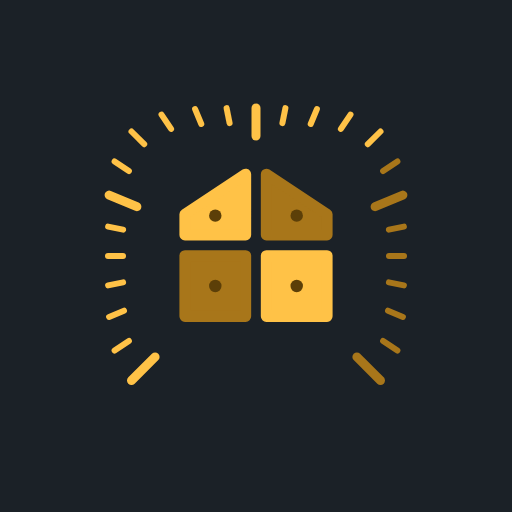
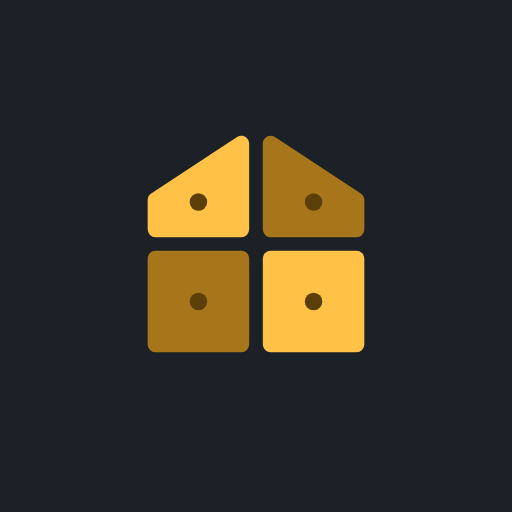
Icône Android maison seule (remontée) ; bouton retour dans la barre de titre sur PC (minimal-ui)
Claude-Session: https://claude.ai/code/session_01UzEPtZNZEKVBjzia6zzU1u

diff --git a/sw.js b/sw.js
@@ -1,5 +1,5 @@
 /* Réseau d'abord (toujours revalidé : le cache HTTP de GitHub Pages dure 10 min) ; copie locale si hors ligne. */
-const C = 'maxisk-v11';
+const C = 'maxisk-v12';
 self.addEventListener('install', () => self.skipWaiting());
 self.addEventListener('activate', e => e.waitUntil(caches.keys().then(ks => Promise.all(ks.filter(k => k.startsWith('maxisk-') && k !== C).map(k => caches.delete(k)))).then(() => self.clients.claim())));
 self.addEventListener('fetch', e => {
